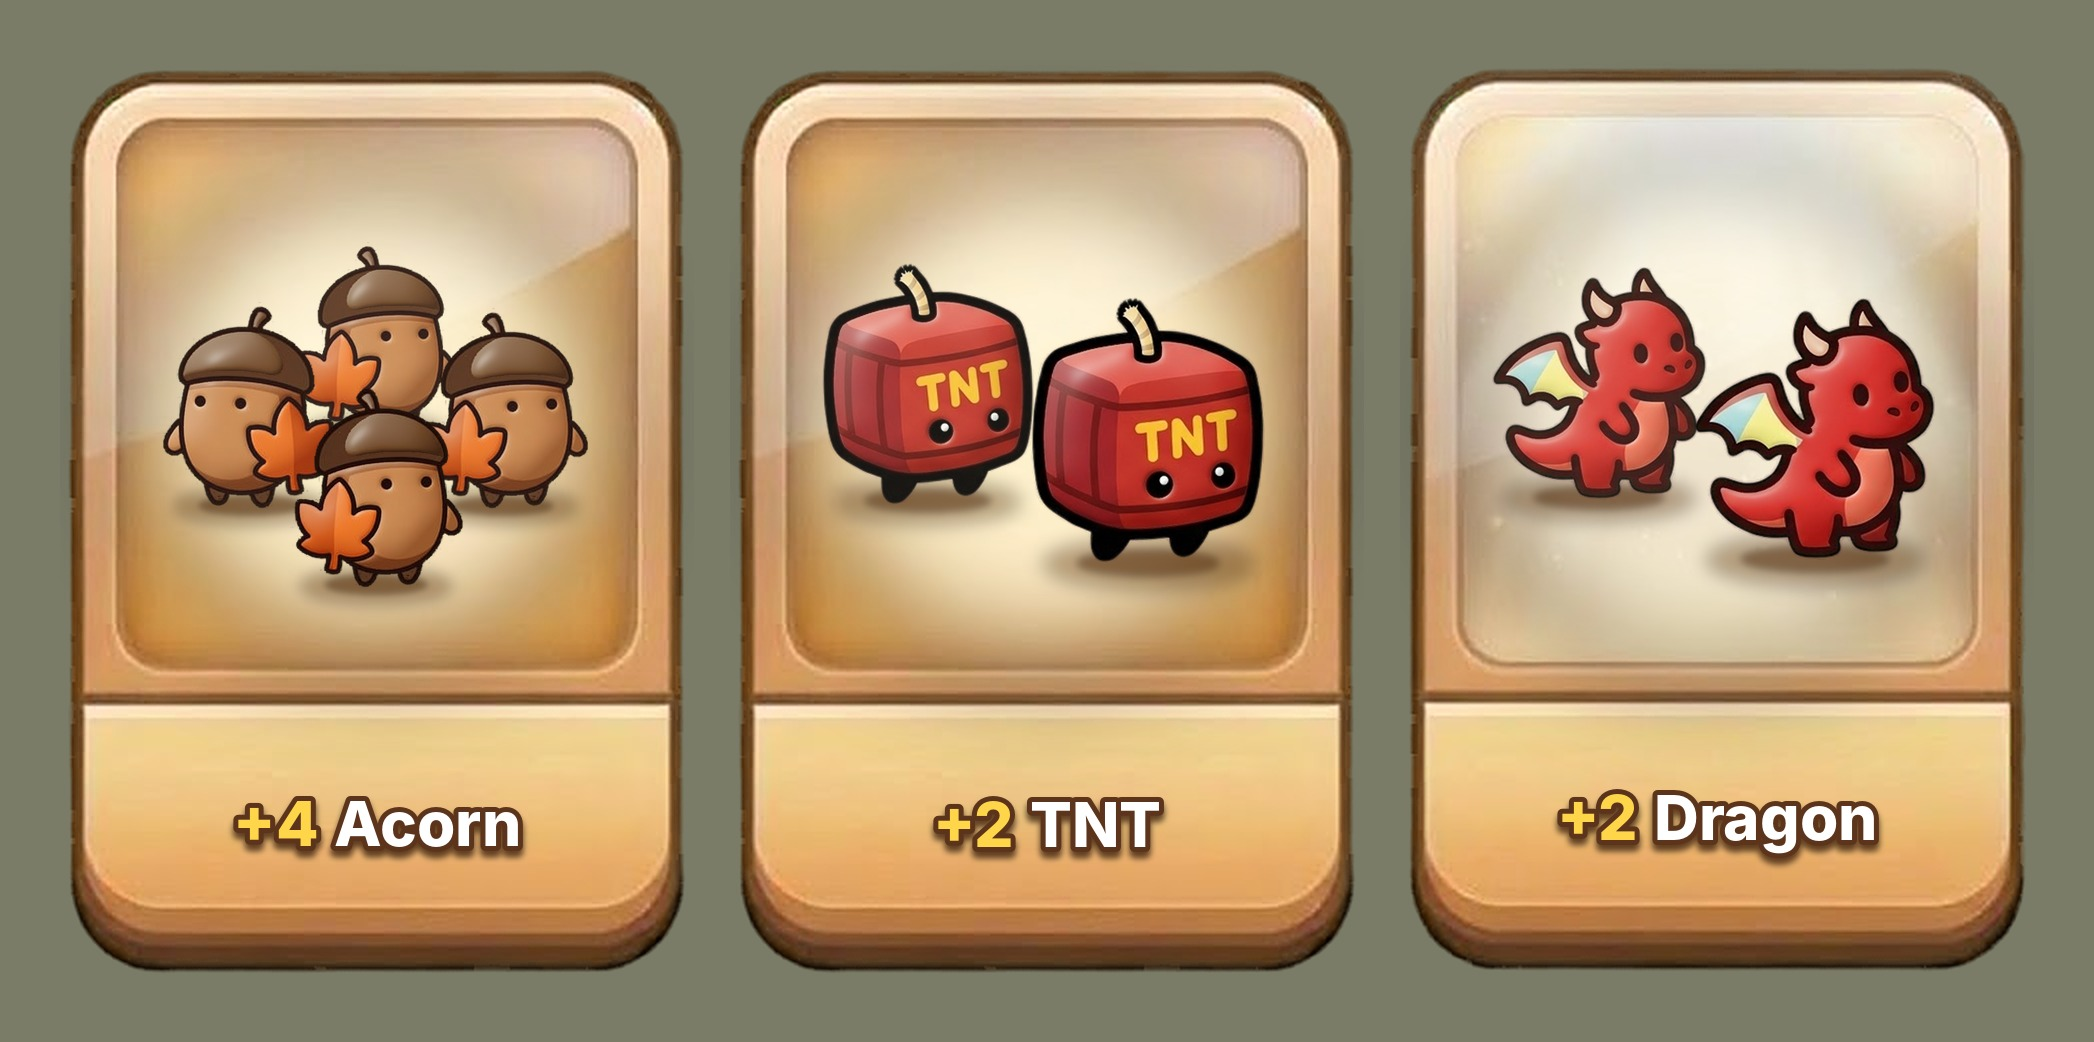
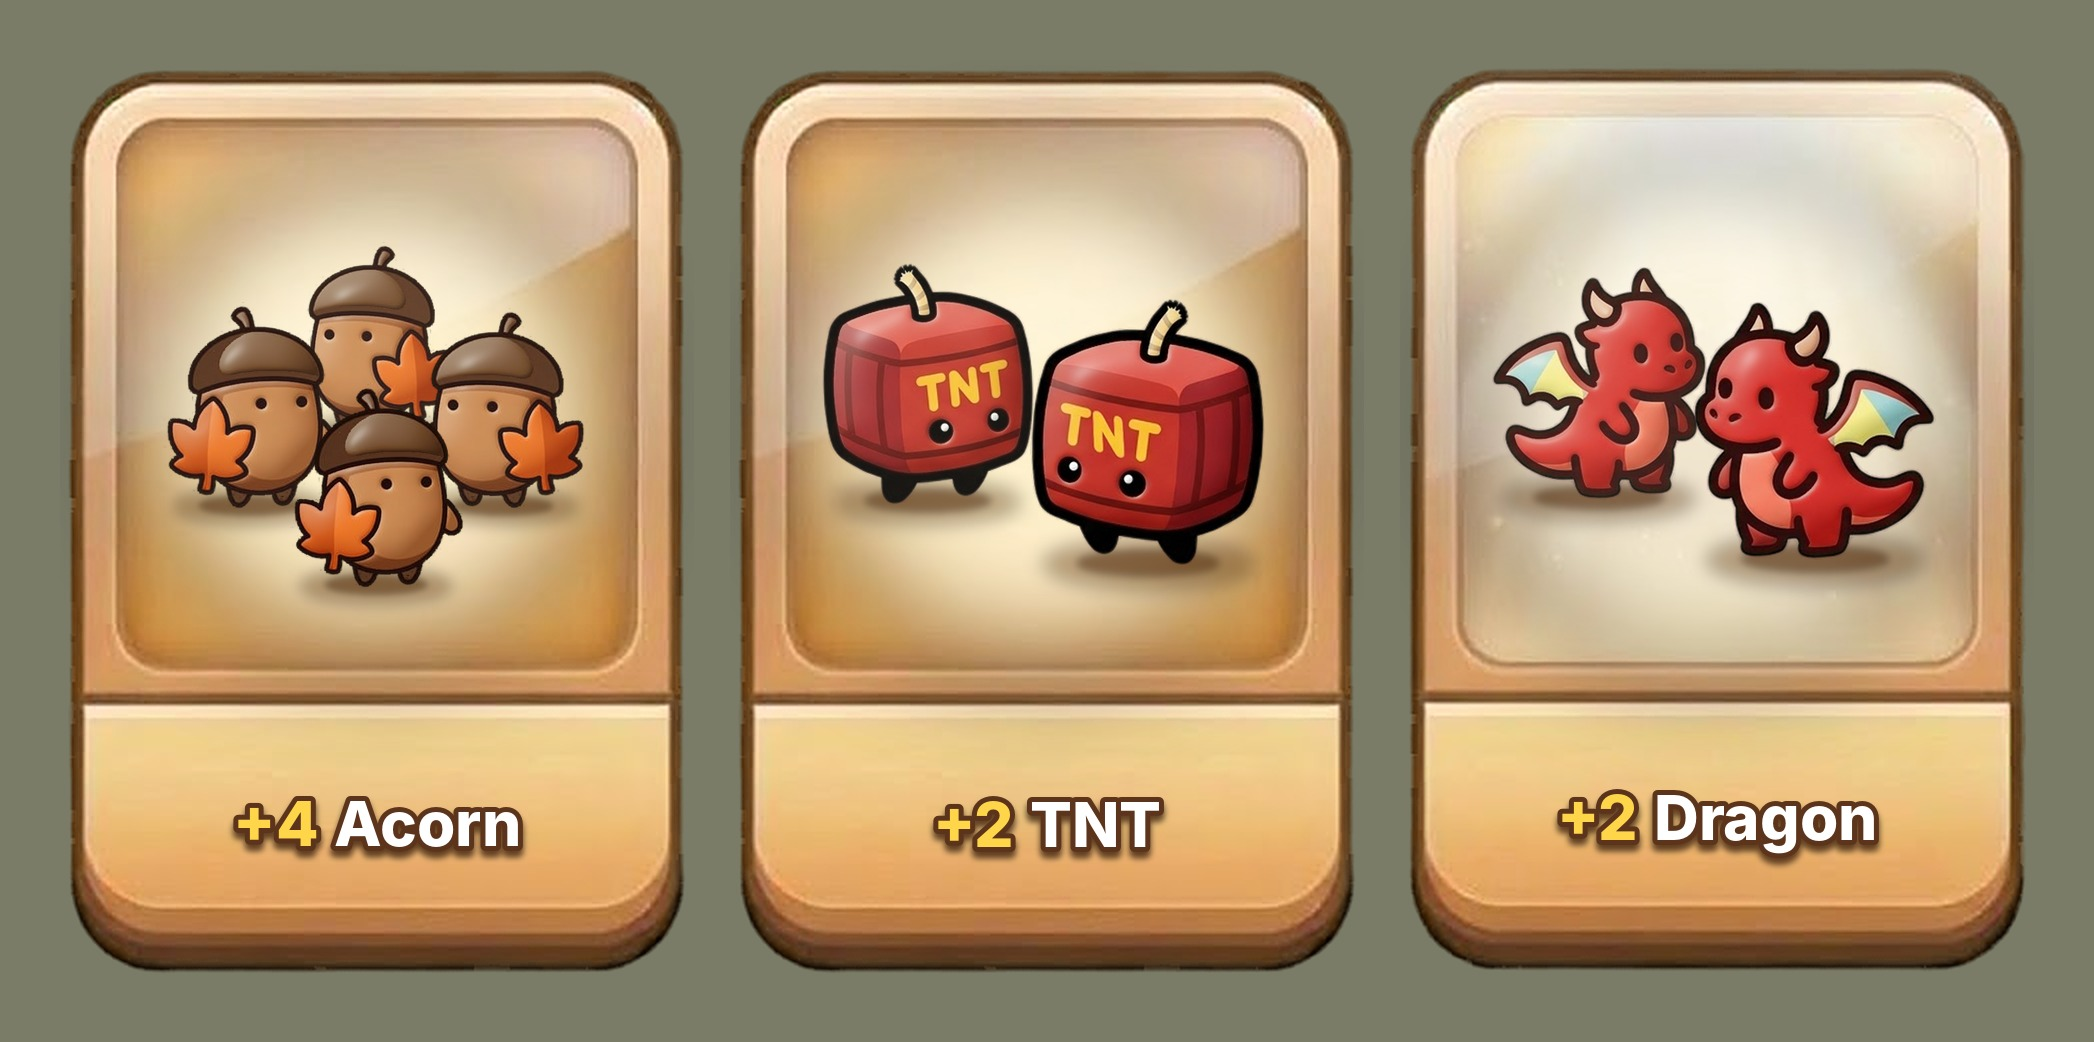
Mix facing directions in card groups and add mirrored brawlers
- Card examples: brawlers in a group now look in different directions
  instead of all facing the same way
- brawlers/shaded_mirrored/: every shaded brawler facing the other way,
  mirrored before shading so the light still comes from the top left
- The mirrored TNT keeps readable letters: its N is turned back after
  the flip, so it can be mirrored like the others

Claude-Session: https://claude.ai/code/session_01EhkagQdMKRPvrdP32sj85t

Changed region(s): [[0.0621, 0.215, 0.2794, 0.4914], [0.8071, 0.2764, 0.9312, 0.5528], [0.4967, 0.2764, 0.6208, 0.5528]]

diff --git a/scripts/shade_brawlers.py b/scripts/shade_brawlers.py
@@ -1,7 +1,11 @@
 """Give the flat brawler sprites soft, rounded 3D shading.
 
-Input:  brawlers/<name>.png          (flat sprites)
-Output: brawlers/shaded/<name>.png   (same design, shaded, at 2x the size)
+Input:  brawlers/<name>.png                   (flat sprites)
+Output: brawlers/shaded/<name>.png            (same design, shaded, at 2x the size)
+        brawlers/shaded_mirrored/<name>.png   (the same, facing the other way)
+
+The mirrored sprites are mirrored first and shaded afterwards, so the light comes from the
+top left in both folders. Never mirror a shaded sprite directly: its light would flip too.
 
 How it works: every colour region of a sprite (body, wing, hat...) is "inflated" from its
 dark outline inward into a smooth height map. That height map is lit from the top left,
@@ -15,11 +19,16 @@ Run from the repo root:  python3 scripts/shade_brawlers.py
 from pathlib import Path
 
 import numpy as np
-from PIL import Image
+from PIL import Image, ImageFilter
+
+from extract_brawlers import dilate, label
 
 ROOT = Path(__file__).resolve().parent.parent
 SRC = ROOT / "brawlers"
 OUT = ROOT / "brawlers" / "shaded"
+OUT_MIRRORED = ROOT / "brawlers" / "shaded_mirrored"
+
+LETTERED = {"tnt"}                            # sprites with the letters "TNT" on them
 
 UPSCALE = 2                                   # shading is computed (and saved) at 2x for smoothness
 LIGHT = np.array([-0.55, -0.70, 0.46])        # light direction: from the top left, toward the viewer
@@ -94,11 +103,65 @@ def shade_sprite(sprite: Image.Image, strength: float = 1.0, up: int = UPSCALE) 
     return Image.fromarray(res, "RGBA")
 
 
+def mirror_keep_letters(sprite: Image.Image) -> Image.Image:
+    """Mirror a sprite that has the yellow letters "TNT" on it, keeping the text readable.
+
+    "TNT" reads the same in both directions, so after mirroring only the N is wrong (it
+    shows as a backwards N). This flips the N back and slants it to follow the mirrored box.
+    """
+    m = sprite.convert("RGBA").transpose(Image.FLIP_LEFT_RIGHT)
+    a = np.asarray(m).astype(np.int32)
+    r, g, b, al = a[..., 0], a[..., 1], a[..., 2], a[..., 3]
+    yellow = (r > 190) & (g > 140) & (b < 120) & (al > 200) & (r - b > 110)
+    labels, n = label(yellow)
+    letters = []
+    for i in range(1, n + 1):
+        ys, xs = np.nonzero(labels == i)
+        if len(xs) > 60:  # ignore specks
+            letters.append((xs.mean(), i, xs.min(), xs.max(), ys.min(), ys.max()))
+    letters.sort()
+    if len(letters) != 3:
+        raise SystemExit(f"expected 3 letters on the sprite, found {len(letters)}")
+    (_, _, ax0, _, ay0, ay1), (_, n_id, nx0, nx1, ny0, ny1), (_, _, cx0, _, cy0, cy1) = letters
+    # Slope of the line of text, from the first to the last letter.
+    slope = ((cy0 + cy1) - (ay0 + ay1)) / 2 / (cx0 - ax0)
+
+    letter = labels == n_id
+    cover = dilate(letter, 3)                       # the letter plus its soft edge
+    ring = dilate(cover, 3) & ~cover & ~dilate(yellow, 2)
+    fill = np.median(a[ring][:, :3], axis=0)        # the box colour around the letter
+
+    pad = 8
+    x0, x1, y0, y1 = int(nx0 - pad), int(nx1 + pad + 1), int(ny0 - pad), int(ny1 + pad + 1)
+    patch = m.crop((x0, y0, x1, y1))
+    matte = Image.fromarray((dilate(letter, 1)[y0:y1, x0:x1] * 255).astype(np.uint8))
+    patch.putalpha(matte.filter(ImageFilter.GaussianBlur(0.7)))
+    patch = patch.transpose(Image.FLIP_LEFT_RIGHT)  # the N reads correctly again...
+    k, xc = 2 * slope, (patch.width - 1) / 2        # ...and is slanted to match the mirrored box
+    patch = patch.transform(patch.size, Image.AFFINE, (1, 0, 0, -k, 1, k * xc), resample=Image.BICUBIC)
+
+    out = a.copy()
+    out[cover, :3] = fill
+    res = Image.fromarray(out.astype(np.uint8), "RGBA")
+    res.alpha_composite(patch, (x0, y0))
+    return res
+
+
+def mirror_sprite(name: str, sprite: Image.Image) -> Image.Image:
+    """Mirror a FLAT sprite left-to-right. Shade the result afterwards with shade_sprite()."""
+    if name in LETTERED:
+        return mirror_keep_letters(sprite)
+    return sprite.convert("RGBA").transpose(Image.FLIP_LEFT_RIGHT)
+
+
 def main() -> None:
     OUT.mkdir(exist_ok=True)
+    OUT_MIRRORED.mkdir(exist_ok=True)
     for path in sorted(SRC.glob("*.png")):
-        shaded = shade_sprite(Image.open(path))
+        flat = Image.open(path)
+        shaded = shade_sprite(flat)
         shaded.save(OUT / path.name, optimize=True)
+        shade_sprite(mirror_sprite(path.stem, flat)).save(OUT_MIRRORED / path.name, optimize=True)
         print(f"{path.stem:8s} {shaded.size}")
 
 

diff --git a/scripts/make_card_examples.py b/scripts/make_card_examples.py
@@ -19,14 +19,13 @@ import numpy as np
 from PIL import Image, ImageDraw, ImageFilter, ImageFont
 
 from extract_brawlers import dilate, flood
-from shade_brawlers import shade_sprite
+from shade_brawlers import mirror_sprite, shade_sprite
 
 ROOT = Path(__file__).resolve().parent.parent
 OUT = ROOT / "examples"
 SIZES = json.loads((ROOT / "brawlers" / "sizes.json").read_text())
 
 S = 2                       # examples are rendered at 2x the card size so they are easy to see
-NO_FLIP = {"tnt"}           # brawlers that must never be mirrored (the TNT has letters on it)
 
 # Height of a full-size (scale 1.0) brawler as a fraction of the card window. Every brawler
 # is drawn at this size times its own scale; a group is only shrunk if it would not fit.
@@ -39,6 +38,15 @@ FORMATIONS = {
     3: [(-0.48, -0.30), (0.48, -0.30), (0.0, 0.18)],
     4: [(0.0, -0.52), (-0.60, -0.16), (0.60, -0.16), (0.0, 0.22)],
     5: [(-0.62, -0.50), (0.62, -0.50), (0.0, -0.14), (-0.66, 0.26), (0.66, 0.26)],
+}
+# Which brawlers of a group are mirrored, in the same order as FORMATIONS. Mixed on purpose,
+# so a group looks alive instead of copy-pasted: neighbours look in different directions.
+MIRRORED = {
+    1: [False],
+    2: [False, True],
+    3: [False, True, False],
+    4: [True, False, True, False],
+    5: [False, True, True, True, False],
 }
 
 # The label font is a placeholder: the first of these that exists is used.
@@ -66,8 +74,8 @@ def shaded(brawler: str, flip: bool = False) -> Image.Image:
         base = Image.open(ROOT / "brawlers" / f"{brawler}.png").convert("RGBA")
         base = base.crop(base.getbbox())
         if flip:
-            base = base.transpose(Image.FLIP_LEFT_RIGHT)
-        _shaded[key] = shade_sprite(base)   # shaded after flipping, so the light stays top-left
+            base = mirror_sprite(brawler, base)
+        _shaded[key] = shade_sprite(base)   # shaded after mirroring, so the light stays top-left
     return _shaded[key]
 
 
@@ -101,7 +109,7 @@ def layout(brawler: str, count: int, unit_h: float, rng: random.Random):
     units = []
     for i, (dx, dy) in enumerate(spots):
         t = (dy - min(ys)) / (max(ys) - min(ys)) if count > 1 else 1.0   # 0 = back row, 1 = front
-        flip = brawler not in NO_FLIP and count > 1 and i % 2 == 1 and dx < 0
+        flip = MIRRORED[count][i]
         jitter = 1.0 + (rng.uniform(-0.04, 0.04) if count > 1 else 0.0)
         spr = fit(shaded(brawler, flip), unit_h * (0.92 + 0.08 * t) * jitter)
         if count > 1:

diff --git a/brawlers/README.md b/brawlers/README.md
@@ -4,6 +4,7 @@ Transparent PNG sprites, cropped tight with 4px padding. Each brawler comes in t
 
 - **Flat** (`<name>.png`): the original sprite.
 - **Shaded** (`shaded/<name>.png`): the same design with soft 3D shading, at 2x the size.
+- **Shaded, mirrored** (`shaded_mirrored/<name>.png`): the shaded sprite facing the other way.
 
 | Flat | Shaded | Name | File | Flat size (px) | Scale |
 |:---:|:---:|---|---|---|---|
@@ -27,8 +28,14 @@ The shaded sprites are calculated from the flat ones, so the designs are identic
 colour region (body, wing, hat...) is shaded like a rounded shape, lit from the top left, with
 a few glossy highlights. Outlines and dark features are untouched.
 
-To mirror a brawler, flip the flat sprite first and shade it afterwards, so the light still
-comes from the top left. The TNT should never be mirrored because of its letters.
+## Mirrored sprites
+
+Use the sprites in `shaded_mirrored/` when a brawler should face the other way. Do not flip a
+shaded sprite in the game: its light would flip too and come from the wrong side. The mirrored
+sprites are flipped first and shaded afterwards, so the light comes from the top left in both
+folders.
+
+The mirrored TNT still reads "TNT": after flipping, its N is turned back the right way round.
 
 ## Source
 

diff --git a/README.md b/README.md
@@ -10,12 +10,13 @@ it moves into the main project repo.
 - [`brawlers/`](brawlers/): brawler sprites (transparent PNGs)
   - `<name>.png`: flat sprites
   - `shaded/<name>.png`: the same sprites with 3D shading
+  - `shaded_mirrored/<name>.png`: the shaded sprites facing the other way
   - `sizes.json`: each brawler's display name and relative size
   - `source/`: the original images
 - [`cards/`](cards/): backgrounds for the "choose a card" screen (basic and jackpot), with the original in `cards/source/`
 - [`examples/`](examples/): previews of how the brawlers look on the cards (not game assets)
 - [`scripts/`](scripts/): helper scripts
   - `extract_brawlers.py` cuts the brawler sprites out of their source images
-  - `shade_brawlers.py` adds the 3D shading to the flat sprites
+  - `shade_brawlers.py` adds the 3D shading to the flat sprites and makes the mirrored versions
   - `extract_cards.py` cuts the basic and jackpot cards out of their source image
   - `make_card_examples.py` renders the previews in `examples/`

diff --git a/examples/README.md b/examples/README.md
@@ -17,8 +17,9 @@ What each card shows:
 - **True sizes:** every brawler is drawn at its own size from [`brawlers/sizes.json`](../brawlers/sizes.json),
   so a Peep is half as tall as a Mage. A group is only shrunk if it would not fit in the window.
 - **Shaded brawlers:** the 3D-shaded sprites from [`brawlers/shaded/`](../brawlers/shaded/).
-- **Small variations:** some brawlers in a group face the other way, with slightly different
-  sizes and tilts. The TNT is never mirrored because of its letters.
+- **Mixed directions:** the brawlers in a group look in different directions, using the
+  mirrored sprites from [`brawlers/shaded_mirrored/`](../brawlers/shaded_mirrored/), with
+  slightly different sizes and tilts. The mirrored TNT still reads "TNT".
 - **Grounding:** each brawler has a wide soft shadow plus a small dark one under its feet, the
   back row fades slightly for depth, and there is a soft glow behind the group.
 - **Label:** gold number and white name, with a dark outline and a drop shadow.
